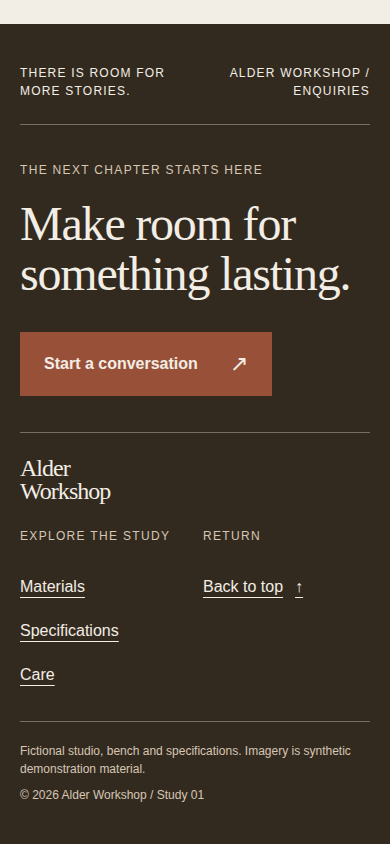
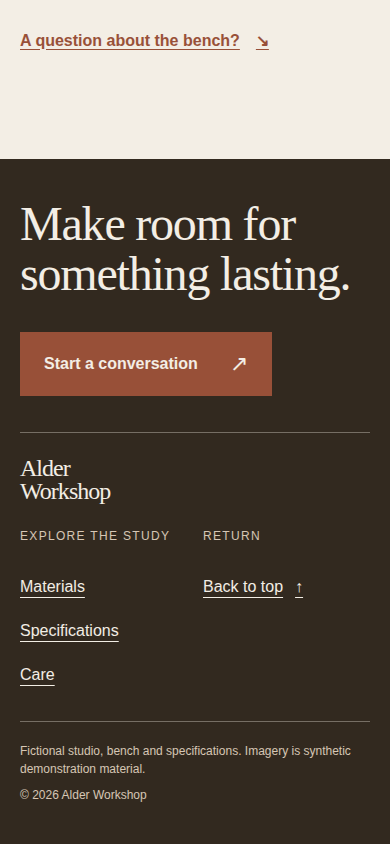
feat: vary layout per chapter and calibrate against chosen neighbours
Implements P04, P03 and P02 of docs/handoff/analysis-2026-10-06.md
(plan: docs/superpowers/plans/2026-10-06-ceiling.md).

- Concept names the template skeleton as a third rut the thesis
  refuses; FIRST VIEWPORT derives copy placement, nav and action form
  from WORLD; the quiet rule is quiet in motion, not in layout.
- Page map gains a Layout column; structure forbids a layout in two
  adjacent chapters and needs four distinct layouts on pages of six or
  more chapters.
- System calibrates against the three DIVERGENCE cards, writing one
  Calibration line per card; the fixed three are the fallback. Site
  cards' Take must carry a compositional or typographic move.
- Jury opens a frame of each neighbour (local or captured live into
  .awards/neighbours/) and names one finish gap per neighbour; a
  different composition never lowers a score.
- Re-captured the six visual examples after the eyebrow removal.
- New build graders: layout-column, calibration-cites-neighbour.

Claude-Session: https://claude.ai/code/session_01SwsV4hSsAaJdJT3fLBHkAr

Changed region(s): [[0.0, 0.0308, 1.0, 0.2156], [0.4, 0.9242, 0.5231, 0.955]]

diff --git a/plugins/awards/skills/concept/SKILL.md b/plugins/awards/skills/concept/SKILL.md
@@ -36,7 +36,7 @@ Why: this is the heaviest reading phase of the plugin; the corpus is the taste, 
 
 - `${CLAUDE_PLUGIN_ROOT}/references/sites/_index.md` first: the table and its neighbour-picking rules. Project-local cards in `.awards/sites/` (written by `awards:research`) count as neighbours too.
 - The three nearest cards in `${CLAUDE_PLUGIN_ROOT}/references/sites/<slug>.md`, sections §7 Principles and §8 Take / Don't take only; §1–§4 are evidence, never a plan.
-- `${CLAUDE_PLUGIN_ROOT}/references/anti-patterns.md` before naming the two ruts, and again before the naming test at the end.
+- `${CLAUDE_PLUGIN_ROOT}/references/anti-patterns.md` before naming the three ruts, and again before the naming test at the end.
 - `${CLAUDE_PLUGIN_ROOT}/references/patterns/narrative-structures.md` before writing STORY.
 - `${CLAUDE_PLUGIN_ROOT}/references/patterns/hero-archetypes.md` before writing FIRST VIEWPORT.
 - `${CLAUDE_PLUGIN_ROOT}/references/patterns/visual-composition.md`: for a read-heavy brief open the typography and editorial frames; for a product brief open hero and specifications. For an editorial/product/material-led complete page, also open the complete composition’s opening, middle and close frames. Select only fitting examples. Record one principle and what changes for this subject. These fictional examples do not replace the three real site-card DIVERGENCE entries.
@@ -51,24 +51,25 @@ Why: a concept is derived from the mechanism, the audience's scene and the stake
 - Without it: ask two questions in one AskUserQuestion round. First, what only this subject can prove and who reads it, where (the physical scene). Second, the stakes and conversion, and the assets on hand (photo, video, 3D, copy, none). Assert your reading of the rest so the user edits rather than composes; never ask about fonts, colours or effects.
 - `--component`: skip to the mini contract at the end; no deal is run for a single element unless the user asked for options.
 
-## Step 1 — the mechanism, the scene and the two ruts
+## Step 1 — the mechanism, the scene and the three ruts
 
-Why: a page defaults twice when nobody names the defaults: to what its category always ships, and to the register every generator reaches for when asked for "award-winning".
+Why: a page defaults three times when nobody names the defaults: to what its category always ships, to the register every generator reaches for when asked for "award-winning", and to the layout every template ships under both.
 
-Write four lines in your working notes before any idea:
+Write five lines in your working notes before any idea:
 - Mechanism: the one thing only this subject can prove (a range, a process, a place, a person's plurality).
 - Scene: where the audience is when they read this, on what device, with how much attention.
 - Category rut: what every model ships for this class, from the category table in `anti-patterns.md` (a portfolio's card grid, a B2B page's metric row and feature triad, a luxury page's serif over a full-bleed photo).
 - Awwwards rut: near-black ground, one neon accent with glow, an oversized grotesque, a blob or particle field behind it, sections that fade and rise, a logo marquee, a cursor trail.
+- Template rut: wordmark left with links right; a label over a two-line headline at bottom left; a subline; a filled plus outline button pair. Costume over this skeleton is still the template.
 
-The thesis must refuse both by name; a thesis that only refuses one lands in the other.
+The thesis must refuse all three by name; a thesis that refuses one lands in another.
 
 ## Step 2 — corpus neighbours and the DIVERGENCE block
 
 Why: three cards give a principle; one card gives a signature, and a signature is exactly what may not be taken.
 
 1. Pick the three nearest cards in the index's order of matching: class first, then visitor mode, then the WebGL dosage the budget affords, then the scroll model. Widen by mode when fewer than three fit; never fill a slot with an unrelated card.
-2. Read their §7 and §8. For each card write one principle taken (a rule that would hold for any site) and one literal move refused (the device, object, colour set, order or line that is that site's own).
+2. Read their §7 and §8. For each card write one principle taken (a rule that would hold for any site) and one literal move refused (the device, object, colour set, order or line that is that site's own). At least one take is compositional, typographic or structural, not technique; when a card's §8 has none, take it from §7.
 3. Note what all three share (masked reveals, a designed footer, numbers as copy): shared moves are the genre's craft and may be used. Anything only one card does is its signature and is refused.
 4. This becomes the DIVERGENCE block, verbatim in shape: three `[site:slug]` entries, each with a take and a refuse line.
 
@@ -88,9 +89,9 @@ Why: a scripted deal stops the round from converging on the presenter's favourit
 Run `node "${CLAUDE_PLUGIN_ROOT}/scripts/roll.mjs" --deal 3 --of 7`. It prints `SEED <key>`, `DEALT a b c of 7` and `LEAD x`, where the lead is a seeded pick among the three, not the lowest index. Record the `SEED` line; it goes into the contract's `Seed` field.
 
 Write the three dealt worlds as full cards of equal weight, in `DEALT` order, the lead marked. Each card carries, in this order:
-- Thesis: the object or behaviour and the two ruts it refuses.
+- Thesis: the object or behaviour and the three ruts it refuses.
 - World: colour strategy, temperature, light or dark and why, the character of the type voice, the material policy (names, not hexes or faces; `awards:system` chooses those).
-- First viewport: the composition in one sentence, with the primary action's position.
+- First viewport: the composition in one sentence; copy placement, nav form and action form come from the world.
 - Signature interaction and its technique tier: DOM-only · moments · canvas-first · 100 % canvas (the rungs of `[pattern:webgl-architecture#dosage-ladder]`).
 - Scroll model: native + Lenis / sticky stages + invisible rails / virtual float / section switcher.
 - Honest risk: what this direction costs in build time, assets, usability or budget.
@@ -133,13 +134,13 @@ Why: one interaction carries the creativity score, and it does so only when it e
 - Behaviour on touch (the coarse-pointer swap), on the keyboard (the key path and the skip), under reduced motion (the tier: a cut, a settled frame, a static state that still shows both sides).
 - Cost tier and what it buys: a DOM-only signature costs a day; canvas-first costs an asset pipeline, a tier system and a DOM mirror; 100 % canvas costs all of that plus the mirror of the whole page.
 - The fallback: what the page shows with no GL and on the low tier.
-- One signature per page. Every other move is craft and stays quiet (`${CLAUDE_PLUGIN_ROOT}/references/anti-patterns.md`, effect inflation).
+- One signature per page. Every other move is craft and stays quiet in motion, not in layout: composition still changes from chapter to chapter (`${CLAUDE_PLUGIN_ROOT}/references/anti-patterns.md`, effect inflation).
 
 ## Step 7 — the remaining blocks
 
 Why: the contract is only usable when the first screen, the world, the scroll model and the load and close are decided at the same resolution as the story.
 
-- FIRST VIEWPORT: choose one archetype from `[pattern:hero-archetypes#choosing]` by model and dosage, then write the exact composition: what is where, at what scale, where the primary action sits, what moves once and for how long. Run the six checks in `[pattern:hero-archetypes#the-first-viewport-test]` on it, including the phone version.
+- FIRST VIEWPORT: choose one archetype from `[pattern:hero-archetypes#choosing]` by model and dosage, then write the exact composition: what is where, at what scale, where the primary action sits, what moves once and for how long. Derive the copy block's placement, the nav's form and the action's form from WORLD (a timetable's columns, a stamp, a dial), never from the template skeleton. Run the six checks in `[pattern:hero-archetypes#the-first-viewport-test]` on it, including the phone version.
 - WORLD: the colour strategy by name (`[pattern:color-and-material#colour-strategies]`), the token count, light or dark and the reason the scene forces it, the type contract type and the character class of the display voice, the material policy. Faces and hexes belong to `awards:system`; the world must be recognisable with every word removed.
 - SCROLL MODEL: one of the four with the reason this story needs it; native + Lenis is the default, a virtual float only when the story must gate or hold, a section switcher only for a short loop.
 - LOAD & CLOSE: the preloader archetype and its real load signal (`[pattern:preloaders-and-transitions#the-load-contract]`), the repeat-visit rule, what the last screen is, that the 404 ships with the first release.
@@ -150,7 +151,7 @@ Why: the contract is only usable when the first screen, the world, the scroll mo
 Why: the block names are read by every other skill, the hook and the evals; a paraphrased name is an invisible block.
 
 1. Open `AWARDS.md` (create it from `${CLAUDE_PLUGIN_ROOT}/assets/templates/AWARDS.md` when absent) and write `## Direction contract` with the blocks in the template's order and exact names: THESIS, WORLD, STORY, FIRST VIEWPORT, SIGNATURE, SCROLL MODEL, LOAD & CLOSE, DIVERGENCE, FINISH, Seed.
-2. Write the `## Page map` skeleton: one row per chapter or route with `#`, `Chapter / route` and `Beat (entrance · hold · exit)` filled from STORY; leave `Components (recipe ids)` and `Notes` for `awards:structure`. A faceted world lists every route, the 404 included.
+2. Write the `## Page map` skeleton: one row per chapter or route with `#`, `Chapter / route` and `Beat (entrance · hold · exit)` filled from STORY; leave `Layout`, `Components (recipe ids)` and `Notes` for `awards:structure`. A faceted world lists every route, the 404 included.
 3. Tick "Direction contract locked (concept)" in `## Status`. Touch no other section.
 4. Keep the seven worlds and the dealt cards in the reply, not in the file; the file carries the decision and the seed.
 
@@ -172,7 +173,7 @@ When the user wants options for a component, run Steps 3 and 4 with three worlds
 
 - [ ] The memory-test answer for the locked direction is an object or a behaviour, written in one sentence with no mood word.
 - [ ] The naming test passes in both directions on the first viewport: no juror could name the source site, none could name the generator.
-- [ ] Every block is concrete: THESIS refuses both ruts by name; STORY has a model, four to six beats, one interruption and a close; SIGNATURE names its jobs, tier, touch, keyboard, reduced-motion and fallback lines; FIRST VIEWPORT is a composition; WORLD names a strategy and a contract type; SCROLL MODEL gives a reason; LOAD & CLOSE names a real signal.
+- [ ] Every block is concrete: THESIS refuses all three ruts by name; STORY has a model, four to six beats, one interruption and a close; SIGNATURE names its jobs, tier, touch, keyboard, reduced-motion and fallback lines; FIRST VIEWPORT is a composition; WORLD names a strategy and a contract type; SCROLL MODEL gives a reason; LOAD & CLOSE names a real signal.
 - [ ] The honest risk is stated for every dealt card and for the winner.
 - [ ] The concept survives with WebGL removed; the page still argues the thesis in the DOM.
 - [ ] DIVERGENCE names three real `[site:slug]` entries from the index or `.awards/sites/`, each with a take and a refuse line; no card's signature, section order, copy, hexes or pairing appears anywhere in the contract.
@@ -189,7 +190,7 @@ The next phase belongs to `awards:system`, which needs the WORLD block and the b
 
 - Mood adjectives as concepts (premium, immersive, bold, cinematic, clean): they fail the memory test by definition.
 - Effect as concept ("a WebGL hero with distortion", "particles that react to the cursor"): an effect is a technique tier, and a technique is not an idea.
-- The category rut and the Awwwards rut, however the user phrases the request; both are named in THESIS as refusals.
+- The category rut, the Awwwards rut and the template skeleton, however the user phrases the request; all three are named in THESIS as refusals.
 - Any card's signature, section order, copy, palette, type pairing or asset, including when the user asks for "something like" a named site; the card's principle is offered instead.
 - A direction that needs assets the user cannot supply (a commissioned object per variant, drone footage, a full bake pipeline) unless the brief labels them synthetic and they can be authored for the build.
 - A deal without the script, an undealt world locked or offered, three variants of one idea presented as three worlds, any option beyond the dealt cards, the exit and re-roll, more than two re-rolls, a second question round.

diff --git a/plugins/awards/skills/jury/SKILL.md b/plugins/awards/skills/jury/SKILL.md
@@ -82,6 +82,13 @@ Why: Design carries 40 percent of the weight, and it is where a page either owns
 - First-viewport thesis: is the THESIS block visible at s00 with the copy ignored? If it needs a scroll, name the capture where it first appears.
 - Concept versus effect: list the effects found in the source and ask which one enacts the thesis. More than one signature dilutes; effects with no concept cap Creativity at 6.
 - Specificity, first direction: compare s00 with the three DIVERGENCE cards (`${CLAUDE_PLUGIN_ROOT}/references/sites/<slug>.md`, the table and §8 of each) and with the palette and type columns of `${CLAUDE_PLUGIN_ROOT}/references/sites/_index.md`. Could a juror name the source site?
+- Finish bar: per DIVERGENCE card, reuse a current `desktop-s00.png` from `.awards/research/<slug>/` or `.awards/neighbours/<slug>/`; otherwise capture the URL on the card's first line, all three in one shell call, one at a time (without `flock`, still never beside another capture):
+
+  ```
+  mkdir -p .awards && flock .awards/capture.lock node "${CLAUDE_PLUGIN_ROOT}/scripts/capture.mjs" <card url> --out .awards/neighbours/<slug> --scroll 0,50 --json
+  ```
+
+  Open its `desktop-s00`, `desktop-s50` and `mobile-s00` beside the build's and name one concrete finish gap per neighbour (edges, image quality, type detail, states) with both capture names, under Specificity test; a gap may enter Material fixes as a design seam. Missing or blank frames (an unreachable site exits 2 with none): write "neighbour frame unavailable" and use the card's §3; this never makes the disposition `recapture`. The neighbour is a finish bar, not a layout to match: a different composition never lowers a score.
 - Specificity, second direction (the slop scan): read `## The slop scan` in `${CLAUDE_PLUGIN_ROOT}/references/anti-patterns.md`. Take the audit's slop, layout and type findings from `.awards/audit.json` first, then walk every `judge` row against the captures. List each family present with its evidence: a capture name, a `file:line` or a rule id. A use recorded under `AWARDS.md ## Exceptions` with a reason a juror would accept is earned and does not count. Two or more families mean a juror could name the generator.
 - World commitment: do s50, s100, the mobile frame, the menu and the 404 belong to the same world as s00, or does a section opt out (a stock component, a second accent, browser-default chrome)?
 - Type: one contract held everywhere, display locked to the artboard, hierarchy readable at phone width, no reflex face as the first family.
@@ -134,7 +141,7 @@ Fill every section of the report:
 - Evidence: the exact manifest path, its applicable chapter/viewport/state coverage and validity, the audit file with its counts, the error counts.
 - Scores: with valid rendered evidence, both tables with a reason next to every number; otherwise every axis, weighted result and developer criterion is `unmeasured`.
 - Memory test: the sentence from section 1 when the first viewport rendered; otherwise `unmeasured`.
-- Specificity test: `no`, or `yes — <site> — <what to change>`.
+- Specificity test: `no`, or `yes — <site> — <what to change>`; then one finish-bar line per neighbour.
 - Slop scan: `families present: n`, one `<family> — <evidence>` line for each, then `generator nameable: yes | no`. The families present enter Material fixes as design seams.
 - Contract fidelity: one row per block, kept or not kept with rendered evidence; otherwise mark visual fidelity `unmeasured` and put any located source findings under `## Source findings`.
 - Material fixes: at most eight, ordered — fidelity first, then walk steps 1 and 3, then audit P0/P1, then design seams. Each row has `location | change | expected visible result | viewport/state | before evidence | after evidence | resolved/partial/unresolved`; the first report uses `unresolved` with `pending` after evidence. Every failed contract block enters the batch or remains explicitly unresolved; no "consider" items.
@@ -207,6 +214,7 @@ This yields `desktop-component-<slug>.png`, its `-hover` frame, `mobile-componen
 
 - All applicable manifest-listed captures, including mobile middle/close, reduced-motion chapters and named states, were opened and named in Evidence with their validity; the audit counts are in the report.
 - The inventory and the memory sentence were written before the contract was read, and the sentence names an object or a behaviour.
+- Each DIVERGENCE neighbour has one finish gap with capture names, or "neighbour frame unavailable".
 - Every measured score has a one-line reason; the site weighted score is the arithmetic of the four axes and component mean of D/U/C; the caps were applied. Missing rendered evidence uses only the unmeasured branch.
 - The disposition follows the derivation order, not a feeling; the fix list is at most eight, ordered, each with a location.
 - `.awards/jury/<date>.md` exists, and `AWARDS.md` gained exactly the two log lines and the Status update; no other project file changed.

diff --git a/docs/superpowers/plans/2026-10-06-ceiling.md b/docs/superpowers/plans/2026-10-06-ceiling.md
@@ -1,0 +1,68 @@
+# Ceiling: layout variance, neighbour calibration, visual re-capture
+
+Branch `feat/ceiling` (from `feat/now-items`). Source: `docs/handoff/analysis-2026-10-06.md`
+§5 Next items P04, P03, P02 (revised text), plus the loose ends from the Now items. Paths
+relative to `plugins/awards/` unless noted.
+
+The open question from the analysis, whether a committed or local reference still library
+exists, is not decided here. P02 uses frames that already exist locally (a research wave's
+`.awards/research/<slug>/`) and otherwise captures the live site at jury time, best effort.
+
+## Packages (disjoint file ownership)
+
+### V. Re-capture the six visual examples
+
+- Regenerate `visuals/*.png` for `typography-specimen`, `editorial-image-text`,
+  `responsive-art-directed-hero`, `product-specification`, `designed-footer`,
+  `complete-editorial-composition` the way they were first produced (see
+  `docs/superpowers/plans/2026-09-22-visual-composition.md`; keep viewport sizes, file names and
+  any metadata such as sizes or hashes in `recipe.json.visuals` in sync).
+- Look at every new image; no overflow, crop, blank section or obscured action.
+- Remove the stale-screenshot sentences from the six READMEs and `visual-composition.md`.
+- `node evals/visual-library-selftest.mjs` passes.
+
+### L. Composition, not only costume (P04)
+
+- `skills/concept/SKILL.md`: name the template skeleton as a third rut the thesis refuses
+  (wordmark left with links right; a label over a two-line headline at bottom left; a subline;
+  a filled plus outline button pair). FIRST VIEWPORT derives copy-block placement, nav form and
+  action form from WORLD. "One signature, every other move quiet" becomes quiet in motion, not
+  in layout.
+- `assets/templates/AWARDS.md`: Page map gains a `Layout` column, written in the world's words.
+- `skills/structure/SKILL.md`: fill the Layout column; no layout in two adjacent chapters; at
+  least four distinct layouts on pages of six or more chapters; a split header only when the
+  thesis needs one.
+- `evals/build-antarctic-site/graders/layout-column.md`: regex that the Page map header has a
+  Layout column (must fail on the untouched fixture).
+
+### R. Neighbour calibration and frames (P03, P02)
+
+- `skills/system/SKILL.md`: calibrate against §3 of the three DIVERGENCE cards; the fixed three
+  (the-line, leo-parpeix, slosh-seltzer) become the fallback when there is no contract. One
+  `Calibration:` line in DESIGN.md `## Overview` per card: one relationship and the value derived
+  from WORLD. Mirror the line in `assets/templates/DESIGN.md`.
+- `skills/research/SKILL.md` and `references/sites/_TEMPLATE.md`: §8 Take must include at least
+  one compositional, typographic or structural move, not only technique.
+- `skills/jury/SKILL.md` (and `agents/awards-jury.md` if the evidence list lives there): for each
+  DIVERGENCE card, reuse a local first-viewport frame if one exists, else capture the card's URL
+  with `capture.mjs` into `.awards/neighbours/<slug>/` (desktop top and middle, phone), honouring
+  the capture lock. Open it beside the build's frames; name one concrete finish gap per neighbour.
+  Blank or failed capture: record "neighbour frame unavailable" and use card text. A different
+  composition never lowers a score; the neighbour is a finish bar, not a layout to match.
+- `skills/ship/SKILL.md`: `.awards/neighbours/` joins the never-ship list.
+- `evals/build-antarctic-site/graders/calibration-cites-neighbour.md`: regex that DESIGN.md has
+  a `Calibration:` line citing a `[site:` slug.
+- Concept edits go to the integrator as handoff (concept belongs to L): at least one take line
+  must be compositional, typographic or structural; if §8 has none, take it from §7.
+
+## Verification (serial, by the integrator)
+
+1. `claude plugin validate .`
+2. `node scripts/lint-refs.mjs`
+3. `node evals/selftest.mjs` (both new graders fail on untouched input)
+4. `node evals/visual-library-selftest.mjs`, `node evals/jury-evidence-selftest.mjs`
+5. `node scripts/audit.mjs recipes` (no P0–P2)
+6. `node scripts/verify-recipes.mjs --only <the six visual examples>`
+7. `node evals/behavior.mjs` (with `AWARDS_PLAYWRIGHT` set as in `state.md`)
+
+The paid `--tag route` eval runs separately against commit `250e141`.

diff --git a/plugins/awards/skills/craft/SKILL.md b/plugins/awards/skills/craft/SKILL.md
@@ -103,7 +103,7 @@ Two rules apply to every phase: never write page code before `## Direction contr
 | 0 | Brief | No `AWARDS.md`, or "Brief captured" unchecked | Done here (see Intake) | `AWARDS.md ## Brief`, visitor mode, synthetic labels |
 | 1 | Concept | Brief captured; no locked contract | Invoke the `awards:concept` skill now with the Skill tool, passing the brief and the AWARDS.md path; do not do its work inline. | `## Direction contract` with every block concrete, `## Page map` skeleton, `Seed` |
 | 2 | System | Contract locked; no `DESIGN.md` or one that predates the contract | Invoke the `awards:system` skill now with the Skill tool, passing the brief and the AWARDS.md path; do not do its work inline. | `DESIGN.md`, `src/styles/tokens.css`, audit clean on fonts, contrast, surfaces |
-| 3 | Structure | `DESIGN.md` exists | Invoke the `awards:structure` skill now with the Skill tool, passing the brief and the AWARDS.md path; do not do its work inline. | `## Page map` filled per chapter, static semantic skeleton, responsive strategy, authored 404 |
+| 3 | Structure | `DESIGN.md` exists | Invoke the `awards:structure` skill now with the Skill tool, passing the brief and the AWARDS.md path; do not do its work inline. | `## Page map` filled per chapter (Layout included), static semantic skeleton, responsive strategy, authored 404 |
 | 4 | Stack | Skeleton exists; no booted project (no `package.json`, or no Lenis + GSAP boot) | Invoke the `awards:stack` skill now with the Skill tool, passing the brief and the AWARDS.md path; do not do its work inline. | Project boots on one ticker, `window.__awards` hook, `## Budgets & tiers` |
 | 5 | Motion | Stack booted; static checkpoint recorded in Page map Notes | Invoke the `awards:motion` skill now with the Skill tool, passing the brief and the AWARDS.md path; do not do its work inline. | `## Motion score` and the motion code, reduced-motion tiers wired |
 | 6 | WebGL | SIGNATURE or the motion score names a GL moment; otherwise tick "explicitly declined", write `webgl none — declined` on the `Deep modes:` line, and skip | Invoke the `awards:webgl` skill now with the Skill tool, passing the brief and the AWARDS.md path; do not do its work inline. | GL layer in its own chunk, DOM mirror, no-GL fallback, budgets updated |
@@ -137,7 +137,7 @@ Why: the contract is the only place the whole team of skills agrees on what the 
 
 | Block | Why it exists | It is concrete when |
 |---|---|---|
-| THESIS | Without a stated idea the page defaults twice: to its category's rut and to the Awwwards register (dark, glow, blob, fade-ups). The block names the idea and both refusals | It names an object or a behaviour, plus the two defaults it refuses |
+| THESIS | Without a stated idea the page defaults three times: to its category's rut, to the Awwwards register (dark, glow, blob, fade-ups) and to the template skeleton (wordmark left, links right; label over a two-line headline bottom left; subline; filled plus outline button pair). The block names the idea and all three refusals | It names an object or a behaviour, plus the three defaults it refuses |
 | WORLD | A world is recognisable with every word removed; type and colour chosen per section never add up to one | Colour strategy, token count, type contract and material policy are named |
 | STORY | Sections stack; chapters argue. Beats (entrance · hold · exit), one interruption and the close are decided before markup | A model from `narrative-structures.md`, four to six beats, one interruption, one close |
 | FIRST VIEWPORT | Jurors decide in three seconds and run the naming test on this screen alone | What is where, at what scale, where the primary action sits |

diff --git a/plugins/awards/recipes/complete-editorial-composition/README.md b/plugins/awards/recipes/complete-editorial-composition/README.md
@@ -24,7 +24,7 @@ Headless Chromium evidence establishes rendering and behavior at these sizes. It
 
 ## Visual notes
 
-The PNGs below predate the 2026-10-06 removal of eyebrow labels and numbered markers; re-capture them before relying on the frames. Captured 2026-09-22 from the built page in headless Chromium 153.0.8010.12 on Linux, device scale 1 and system fonts, with normal motion. Desktop is 1440×900 CSS px; mobile is 390×844 CSS px with touch/mobile emulation. These six unedited PNGs are below 1 MiB each. The standard capture positions are 0%, 50% and 100% of the scrollable document, so middle frames are evidence of the specification and close frames show the footer. Reviewed: no material overflow, crop or hierarchy defect in these frames.
+Captured 2026-10-06 from the built page in headless Chromium 153.0.8010.12 on Linux, device scale 1 and system fonts, with normal motion. Desktop is 1440×900 CSS px; mobile is 390×844 CSS px with touch/mobile emulation. These six unedited PNGs are below 1 MiB each. The standard capture positions are 0%, 50% and 100% of the scrollable document, so middle frames are evidence of the specification and close frames show the footer. Reviewed: no material overflow, crop or hierarchy defect in these frames.
 
 ### Desktop opening
 
@@ -98,6 +98,6 @@ Final viewport, scroll 100%; the whole footer fits at 390×844.
 - Measure and whitespace: the heading stays readable at 48px, rules divide the closing roles, and short text blocks keep the ending compact.
 - Recomposition: the contact action moves below the title, the signature spans both lower columns, and section links become a vertical list.
 
-Additional 320×844 and 768×1024 browser frames were inspected at top, middle and end. At 320px the footer is naturally taller than one viewport, so its statement begins above the final frame; the contact action and navigation remain readable and reachable. At 768px the wide layouts start, the product retains its complete silhouette, long specification values wrap, and care/close retain distinct columns. Material-story and care-passage captures at all four widths confirmed their order, readable wraps and intact resting text. These additional raw captures remain in the ignored verification output or OS temporary capture directories.
+Additional 320×844 and 768×1024 browser frames were inspected at top, middle and end. At 320px the statement wraps to three lines and the whole footer still fits the final frame; the contact action and navigation remain readable and reachable. At 768px the wide layouts start, the product retains its complete silhouette, long specification values wrap, and care/close retain distinct columns. Material-story and care-passage captures at all four widths confirmed their order, readable wraps and intact resting text. These additional raw captures remain in the ignored verification output or OS temporary capture directories.
 
 An unsuccessful alternative would give every section the same two-column photograph-and-heading template, or mask a component’s bad wrap with a page-only override. When adapting, choose a coherent subject and image family, vary density according to the content, replace the synthetic facts and contact route, and inspect opening, material story, specifications, care and close together. The component sources own their responsive layouts; the complete page owns only sequencing and pace.

diff --git a/plugins/awards/recipes/product-specification/README.md b/plugins/awards/recipes/product-specification/README.md
@@ -20,13 +20,13 @@ Alder Workshop, the bench, specifications, construction and care claims, availab
 
 ## Visual notes
 
-The PNGs below predate the 2026-10-06 removal of eyebrow labels and numbered markers; re-capture them before relying on the frames. Captured 2026-09-22 from the built page in headless Chromium 153.0.8010.12 on Linux, device scale 1, system fonts, normal motion. Desktop is 1440×900 CSS px; mobile is 390×844 CSS px with touch/mobile emulation. All published PNGs are unedited browser screenshots under 1 MiB. Reviewed for hierarchy, aligned edges, crop, whitespace and responsive order; no material defect was found in these frames.
+Captured 2026-10-06 from the built page in headless Chromium 153.0.8010.12 on Linux, device scale 1, system fonts, normal motion. Desktop is 1440×900 CSS px; mobile is 390×844 CSS px with touch/mobile emulation. All published PNGs are unedited browser screenshots under 1 MiB. Reviewed for hierarchy, aligned edges, crop, whitespace and responsive order; no material defect was found in these frames.
 
 ### Desktop
 
 ![product-specification — desktop](visuals/desktop.png)
 
-Specification view; scroll 25%. The opening title is above the frame.
+Specification view; scroll 25%. The opening title meets the top edge.
 
 - Hierarchy: the large product name precedes the profile and the quieter “The particulars” register.
 - Alignment: profile top meets the facts’ top rule; the image caption stays with the left column while values form a separate right column.
@@ -38,12 +38,12 @@ Specification view; scroll 25%. The opening title is above the frame.
 
 ![product-specification — mobile](visuals/mobile.png)
 
-Specification view; scroll 35%. Joinery starts at the lower edge; finish and the care summary follow below.
+Specification view; scroll 35%. Joinery ends at the lower edge; finish and the care summary follow below.
 
-- Hierarchy: the complete profile leads into the label and serif section heading before the fact list.
+- Hierarchy: the complete profile leads into the serif section heading before the fact list.
 - Alignment: image, caption, heading and register share the 20px gutter; each value aligns beneath its label.
 - Crop: the bench remains complete in its natural 3:2 frame, with ample pale wall and floor.
 - Measure and whitespace: separated label/value pairs avoid squeezing “Repairable mechanical joints” into a narrow second column.
-- Recomposition: the image and facts become one reading sequence; this viewport shows width, depth, height and material, with more facts below.
+- Recomposition: the image and facts become one reading sequence; this viewport shows five facts, with finish below.
 
 An unsuccessful alternative would replace units and labels with decorative counters. For another product, use verified facts, truthful care instructions and a matching profile; retest the longest label/value and the open disclosure.

diff --git a/plugins/awards/agents/awards-jury.md b/plugins/awards/agents/awards-jury.md
@@ -36,7 +36,7 @@ Run these steps in this order, every time, and skip none.
 
 1. **Evidence gate.** Manifest present, fresh and without page/console errors; `.awards/audit.json` present and fresh. Produce what is missing into a fresh timestamp-plus-stage output directory per `references/capture-states.md` with `scripts/capture.mjs` and `scripts/audit.mjs` from the plugin root (`${CLAUDE_PLUGIN_ROOT}`, or locate it with Glob for `**/references/jury/rubric.md`). When evidence cannot be produced, the disposition is `recapture`; all visual and developer scores, visual memory and visual fidelity remain `unmeasured`. Located source findings go under a separate heading. Step 2 completes the full frame-validity check after Page map coverage.
 2. **Inventory and memory test** from `desktop-s00` alone. Then read only `AWARDS.md ## Page map`, derive coverage from its chapters, the current manifest, desktop/mobile middle and close, reduced-motion sections and required named states, and recapture any gap. Open every required frame and reject blank, flat, stuck or unchanged s00/s50/s100 evidence before scoring. Read `## Direction contract`, `## Motion score` and `DESIGN.md` only after that coverage is complete.
-3. **Assessment A, design director:** memory test, first-viewport thesis, concept versus effect, specificity in both directions (the source site; the generator, by the slop scan in `references/anti-patterns.md`), world commitment across every capture, type, pacing, close.
+3. **Assessment A, design director:** memory test, first-viewport thesis, concept versus effect, specificity in both directions (the source site; the generator, by the slop scan in `references/anti-patterns.md`), the finish bar (one concrete finish gap per DIVERGENCE neighbour against its `desktop-s00`, `desktop-s50` and `mobile-s00`, reused from `.awards/research/<slug>/` or captured into `.awards/neighbours/<slug>/` behind `flock .awards/capture.lock`; "neighbour frame unavailable" when blank or failed; a different composition never lowers a score), world commitment across every capture, type, pacing, close.
 4. **Assessment B, developer judge:** animation and interaction, performance, responsive, accessibility and semantics, code and markup, each tied to audit rule ids and manifest metrics.
 5. **Assessment C, usability walk:** the eight steps of `references/jury/usability-walk.md`, one `walk n — pass | fail — note` line each, with the caps they impose.
 6. **Scores** against `references/jury/rubric.md`: four axes with weights 40 / 30 / 20 / 10 and a one-line reason each, five developer criteria with a note each, the weighted result, the caps applied.

diff --git a/plugins/awards/skills/structure/SKILL.md b/plugins/awards/skills/structure/SKILL.md
@@ -60,7 +60,8 @@ List from `## Brief` and the project: headings and paragraphs that exist; number
 
 Why: `AWARDS.md ## Page map` is the one table every later skill reads: motion authors a moment per row, WebGL builds a scene per row that names one, ship checks every row rendered.
 
-- One row per chapter or route with the template's columns: `#`, `Chapter / route`, `Beat (entrance · hold · exit)`, `Components (recipe ids)`, `Notes`. The beat column comes from STORY; the concept phase may have left the skeleton rows.
+- One row per chapter or route with the template's columns: `#`, `Chapter / route`, `Beat (entrance · hold · exit)`, `Layout`, `Components (recipe ids)`, `Notes`. The beat column comes from STORY; the concept phase may have left the skeleton rows.
+- Layout in the world's words ("ruled columns of a call sheet", not "two-column"): no layout in two adjacent chapters; at least four distinct layouts on a page of six or more chapters; a split header (wordmark left, links right) only when the thesis needs one.
 - Rule of three inside a hold: three support points at most.
 - Place the signature in exactly one chapter and the interruption in exactly one, after the first content beat; write which row carries each.
 - Pacing: alternate spectacle and rest; after a scrubbed scene a block that only reads; at most one hero-scale moment per chapter and never in two adjacent chapters; a dense chapter (a spec table, a triptych) is followed by a single line at display scale.
@@ -143,7 +144,7 @@ Read the HTML top to bottom with styles disabled (or as source): it must read as
 - [ ] No identical card grid, eyebrow labels, hero-metric row or numbered markers by habit (L04, L05, X07, X08); no template order.
 - [ ] The footer is designed with the conversion in the page's register; the 404 exists, reads in the world and has three routes out.
 - [ ] The responsive strategy is named; 320 px shows no horizontal scroll; the coarse-pointer swaps are planned per component.
-- [ ] Every page map row has a beat, at least one component id or `custom`, an accessibility need and a static-tier still; the signature and the interruption each live in exactly one row.
+- [ ] Every page map row has a beat, a Layout no adjacent row repeats (four or more distinct from six chapters), at least one component id or `custom`, an accessibility need and a static-tier still; the signature and the interruption each live in exactly one row.
 - [ ] `DESIGN.md ## Components` has an entry per chosen component.
 
 ## Hand-off

diff --git a/docs/handoff/state.md b/docs/handoff/state.md
@@ -5,6 +5,15 @@ recorded below in [Candidate verification record](#candidate-verification-record
 `verification-log.md` record the earlier 0.2.0 work. `plan.md` is the 0.1.0 specification, kept for
 reference. `decisions.md` records choices already taken.
 
+## Ceiling (branch `feat/ceiling`, 2026-10-06)
+
+- Source: `analysis-2026-10-06.md` P02, P03, P04; plan: `docs/superpowers/plans/2026-10-06-ceiling.md`.
+- Layout (P04): concept names a third rut, the template skeleton; FIRST VIEWPORT takes copy, nav and action form from WORLD. Page map gains a `Layout` column; structure fills it (no adjacent repeat, four distinct on six or more chapters, split header only when the thesis needs it).
+- Neighbours (P03, P02): system calibrates against the three DIVERGENCE cards' §3 and writes one `Calibration:` line per card in `DESIGN.md ## Overview`. §8 Take and concept takes need one compositional, typographic or structural move. The jury reuses or captures each neighbour into `.awards/neighbours/<slug>/` behind the capture lock and names one finish gap per card; ship never ships that folder.
+- The six visual examples re-captured 2026-10-06; stale-screenshot notes removed.
+- New graders `layout-column`, `calibration-cites-neighbour`. Checks green: validate, lint-refs (622 files), selftest 17/0 defective, visual-library 16, jury-evidence 5, audit `recipes` P0–P2 clean, verify-recipes 6/6, behavior 15/15.
+- Open: see `todo.md` Ceiling follow-ups (card §8 hand-fixes, paid measures, demo masthead numbers).
+
 ## Now items (branch `feat/now-items`, 2026-10-06)
 
 - Source: `analysis-2026-10-06.md`; plan: `docs/superpowers/plans/2026-10-06-now-items.md`.
@@ -13,7 +22,7 @@ reference. `decisions.md` records choices already taken.
 - Audit: L05 BEM-aware, X07 catches `/ 0N` and `No. 0N` (P2 under `recipes/`), Exceptions parse stops at the next `##`. 14 recipes cleaned and re-verified; audit `recipes` P0–P2 clean.
 - `UserPromptSubmit` route hint (`scripts/route-hint.mjs`); new `route-full-tools-brief` eval and `jury-generic-saas/not-shipped` grader, both unpaid so far.
 - Checks green: validate, lint-refs (620 files), selftest, behavior 15/15 (needs `AWARDS_PLAYWRIGHT`), verify-recipes 14/14, codex-install `--build`.
-- Open: re-capture the six visual-example screenshots (`visuals/`), then drop their stale-screenshot notes; run the paid `--tag route` eval.
+- Open: run the paid `--tag route` eval.
 
 ## 0.5.0 — deep modes (branch `feat/deep-modes`)
 

diff --git a/plugins/awards/skills/system/SKILL.md b/plugins/awards/skills/system/SKILL.md
@@ -40,7 +40,7 @@ Why: the type and colour rules live in two pattern files with the corpus evidenc
 - `${CLAUDE_PLUGIN_ROOT}/references/reflex-lists.md` before naming any face or palette; its alternatives table is the shortlist.
 - `${CLAUDE_PLUGIN_ROOT}/references/craft-floor.md`, the Type and Colour and material sections, for the audit rule ids the result is measured against.
 - `${CLAUDE_PLUGIN_ROOT}/assets/templates/DESIGN.md` for the frontmatter schema and the section names; `${CLAUDE_PLUGIN_ROOT}/recipes/_shared/tokens.css` for the token names every recipe expects.
-- One or two cards by contract type, §3 Visual language and §8 Take / Don't take only: `[site:the-line]` for one variable grotesk with a vw-lock, `[site:leo-parpeix]` for a two-family contract with a theme per section, `[site:slosh-seltzer]` for a palette as navigation. Their hexes and pairings are evidence, never values.
+- §3 Visual language and §8 Take / Don't take of the three DIVERGENCE cards (`${CLAUDE_PLUGIN_ROOT}/references/sites/<slug>.md`, or `.awards/sites/<slug>.md`). With no contract, one or two by contract type instead: `[site:the-line]` for one variable grotesk with a vw-lock, `[site:leo-parpeix]` for a two-family contract with a theme per section, `[site:slosh-seltzer]` for a palette as navigation. Their hexes and pairings are evidence, never values; what transfers is a relationship (display-to-body ratio, clamp vw, columns, ground lightness, accent share). Write one `Calibration:` line per card read into `DESIGN.md ## Overview`: the `[site:slug]`, the relationship, and this world's value with its WORLD reason.
 
 ## Inputs
 
@@ -131,7 +131,7 @@ Run `node "${CLAUDE_PLUGIN_ROOT}/scripts/audit.mjs" <dir> --scope fonts,contrast
 - [ ] Type scale carries `--display`, `--h2`, `--h3`, `--body` and `--label`; no label above a heading unless WORLD names a metadata world.
 - [ ] Motion tokens present with values chosen from WORLD and the register recorded under `## Motion`; three duration bands; reduced-motion shortening in place, no global kill.
 - [ ] `DESIGN.md` frontmatter, prose and `tokens.css` carry identical values; every token name in `recipes/_shared/tokens.css` is present unchanged.
-- [ ] No hex, pairing or set from any corpus card reused as a package.
+- [ ] No hex, pairing or set from any corpus card reused as a package; one `Calibration:` line per card read, each citing its `[site:slug]`.
 
 ## Hand-off
 

diff --git a/plugins/awards/evals/trigger-ship/fixture/AWARDS.md b/plugins/awards/evals/trigger-ship/fixture/AWARDS.md
@@ -37,14 +37,14 @@
 - **Seed:** ferro-2026-02
 
 ## Page map
-| # | Chapter / route | Beat (entrance · hold · exit) | Components (recipe ids) | Notes |
-|---|---|---|---|---|
-| 0 | Preloader | hold on the counter | `[recipe:preloader-counter-hold]` | real signal: two decoded photographs |
-| 1 | Hero | entrance | `[recipe:split-text-masked-reveal]` | headline reveals once, never on re-entry |
-| 2 | Measure · Braze · Paint | hold | `[recipe:sticky-stack-cards]` | three chapters, one rhythm |
-| 3 | The build | hold | `[recipe:scroll-pin-scrub]` | the signature, one pin only |
-| 4 | Waiting list | exit | `[recipe:marquee-raf-mask]` | the interruption, slot years scrolling |
-| 5 | Book a fitting | exit | — | form, then footer |
+| # | Chapter / route | Beat (entrance · hold · exit) | Layout | Components (recipe ids) | Notes |
+|---|---|---|---|---|---|
+| 0 | Preloader | hold on the counter | counter alone on paper | `[recipe:preloader-counter-hold]` | real signal: two decoded photographs |
+| 1 | Hero | entrance | headline on the left third, photograph bled right | `[recipe:split-text-masked-reveal]` | headline reveals once, never on re-entry |
+| 2 | Measure · Braze · Paint | hold | stacked job cards | `[recipe:sticky-stack-cards]` | three chapters, one rhythm |
+| 3 | The build | hold | pinned frame on a jig, stage list beside | `[recipe:scroll-pin-scrub]` | the signature, one pin only |
+| 4 | Waiting list | exit | one ruled band of slot years | `[recipe:marquee-raf-mask]` | the interruption, slot years scrolling |
+| 5 | Book a fitting | exit | fitting form as a measurement sheet | — | form, then footer |
 
 ## Motion score
 | Moment | Trigger | Vocabulary (ease · duration · stagger) | Reduced-motion tier | Recipe |

diff --git a/plugins/awards/references/patterns/visual-composition.md b/plugins/awards/references/patterns/visual-composition.md
@@ -12,5 +12,3 @@ Use this after the site-card principles are chosen. These are synthetic Alder Wo
 | Complete page pacing | `complete-editorial-composition` | `recipes/complete-editorial-composition/visuals/desktop.png`, `recipes/complete-editorial-composition/visuals/mobile.png`, `recipes/complete-editorial-composition/visuals/desktop-middle.png`, `recipes/complete-editorial-composition/visuals/mobile-middle.png`, `recipes/complete-editorial-composition/visuals/desktop-close.png`, `recipes/complete-editorial-composition/visuals/mobile-close.png`; `recipes/complete-editorial-composition/README.md#visual-notes` | Where should density change, and does the ending resolve the opening? |
 
 The paths above are declared in `recipe.json.visuals`; open each needed viewport by its full path. For a complete page, compare opening, middle and close at desktop and mobile widths. Record one transferable principle and one change required by this brief in the existing direction or page-map Notes. Preserve the site's own content, assets, licensed type, palette and order; the demonstrations explain relationships, not a layout to copy. Site-card DIVERGENCE still uses three real `[site:slug]` entries.
-
-The `editorial-image-text`, `responsive-art-directed-hero`, `product-specification`, `typography-specimen`, `designed-footer` and `complete-editorial-composition` images predate the 2026-10-06 removal of their eyebrow labels and numbered markers and need re-capturing; until then, read the markup over the frames for those details.
